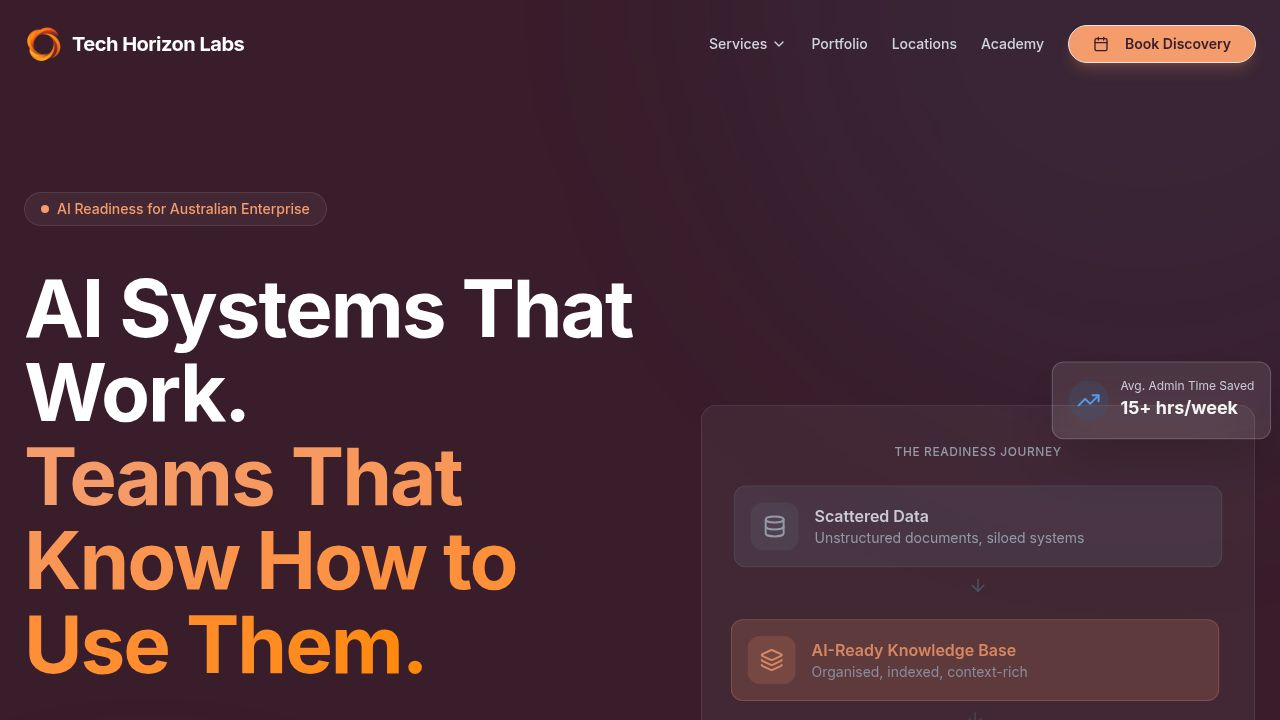
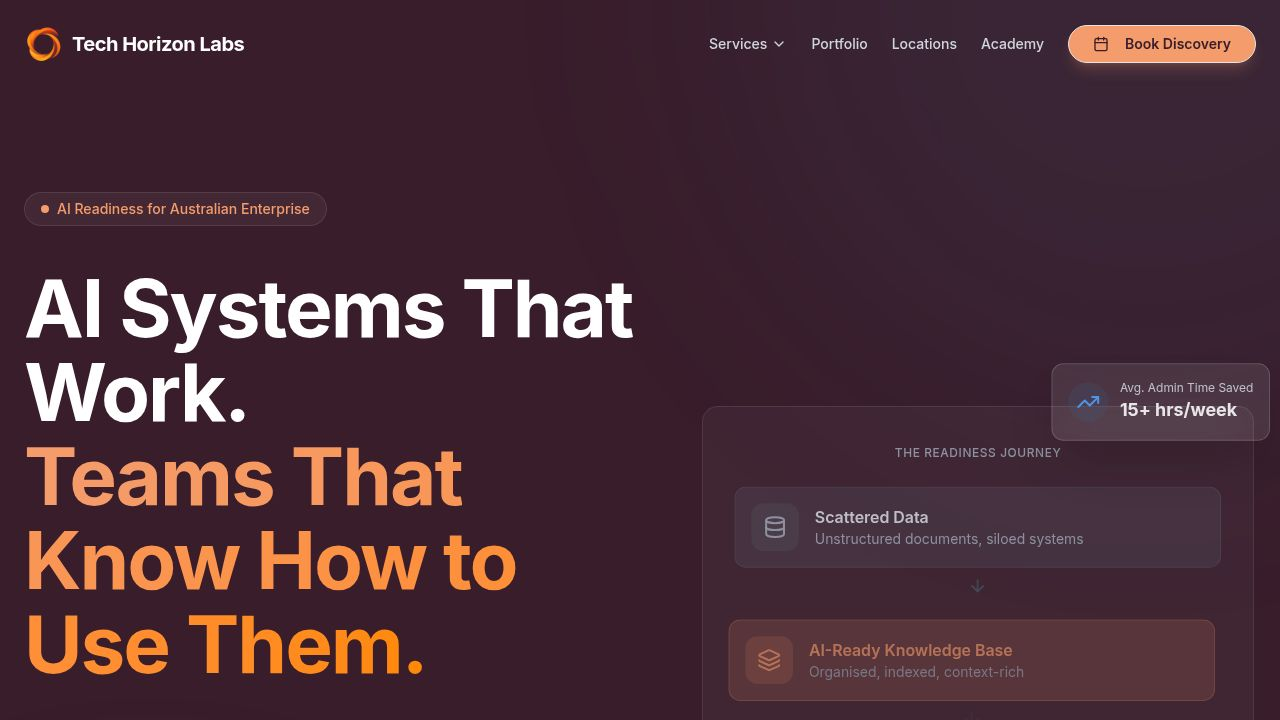
Improve website performance by optimizing images and fonts
Optimize og-image, add preconnect/dns-prefetch hints, preload critical fonts, and load Google Fonts asynchronously.

Replit-Commit-Author: Agent
Replit-Commit-Session-Id: 0a4a9e76-468f-4c83-b8e7-cb85c2a0bb39
Replit-Commit-Checkpoint-Type: intermediate_checkpoint
Replit-Commit-Event-Id: a8668546-e203-4148-b12b-5f17c643c415
Replit-Commit-Screenshot-Url: https://storage.googleapis.com/screenshot-production-us-central1/11b6cdf7-c583-4d84-a3c5-04c6bccf55ab/0a4a9e76-468f-4c83-b8e7-cb85c2a0bb39/iityECu
Replit-Helium-Checkpoint-Created: true

diff --git a/client/index.html b/client/index.html
@@ -237,9 +237,20 @@
     <link rel="apple-touch-icon" sizes="180x180" href="/apple-touch-icon.png" />
     <link rel="manifest" href="/manifest.json" />
     <meta name="theme-color" content="#1e1b4b" />
-    <link rel="preconnect" href="https://fonts.googleapis.com">
-    <link rel="preconnect" href="https://fonts.gstatic.com" crossorigin>
-    <link href="https://fonts.googleapis.com/css2?family=Inter:wght@300;400;500;600;700;800&display=swap" rel="stylesheet">
+    
+    <!-- Preconnect to external domains -->
+    <link rel="preconnect" href="https://fonts.googleapis.com" />
+    <link rel="preconnect" href="https://fonts.gstatic.com" crossorigin />
+    <link rel="dns-prefetch" href="https://app.klipycrm.com" />
+    
+    <!-- Preload critical fonts for faster LCP -->
+    <link rel="preload" href="https://fonts.gstatic.com/s/inter/v18/UcCO3FwrK3iLTeHuS_nVMrMxCp50SjIw2boKoduKmMEVuLyfAZ9hiJ-Ek-_EeA.woff2" as="font" type="font/woff2" crossorigin />
+    
+    <!-- Google Fonts with display=swap for non-blocking render -->
+    <link href="https://fonts.googleapis.com/css2?family=Inter:wght@400;500;600;700&display=swap" rel="stylesheet" media="print" onload="this.media='all'" />
+    <noscript>
+      <link href="https://fonts.googleapis.com/css2?family=Inter:wght@400;500;600;700&display=swap" rel="stylesheet" />
+    </noscript>
   </head>
   <body>
     <div id="root"></div>